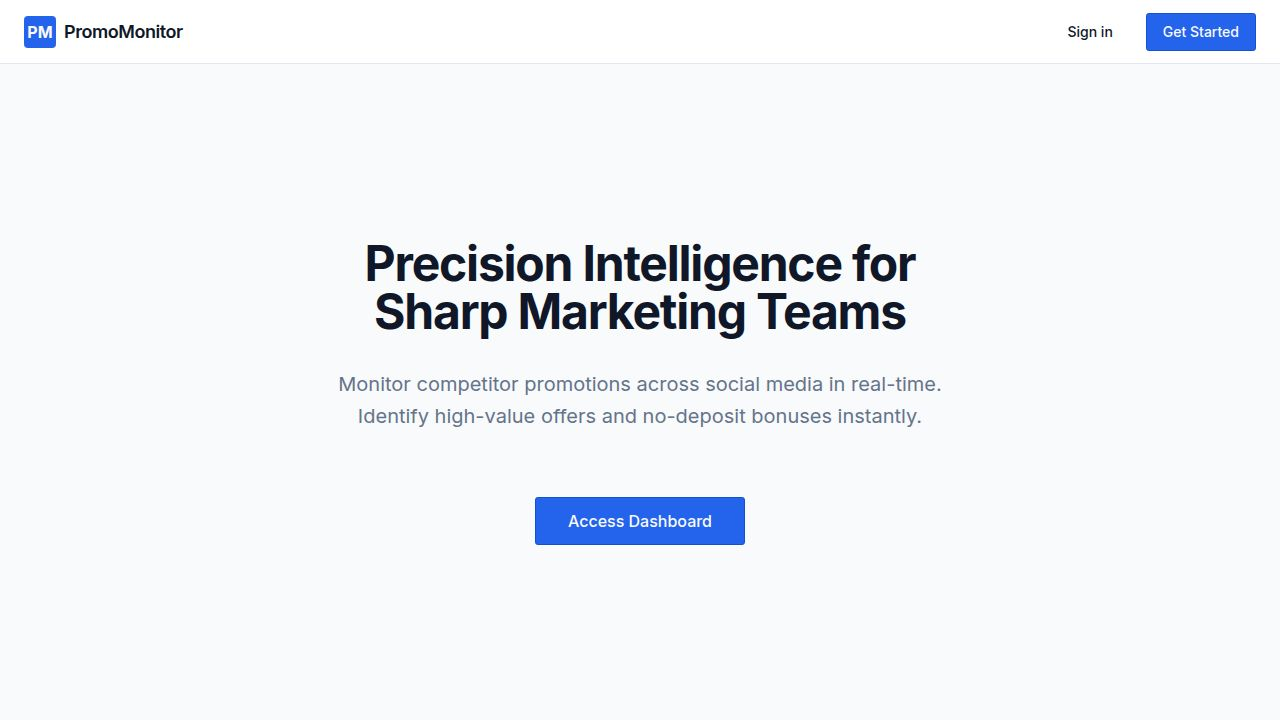
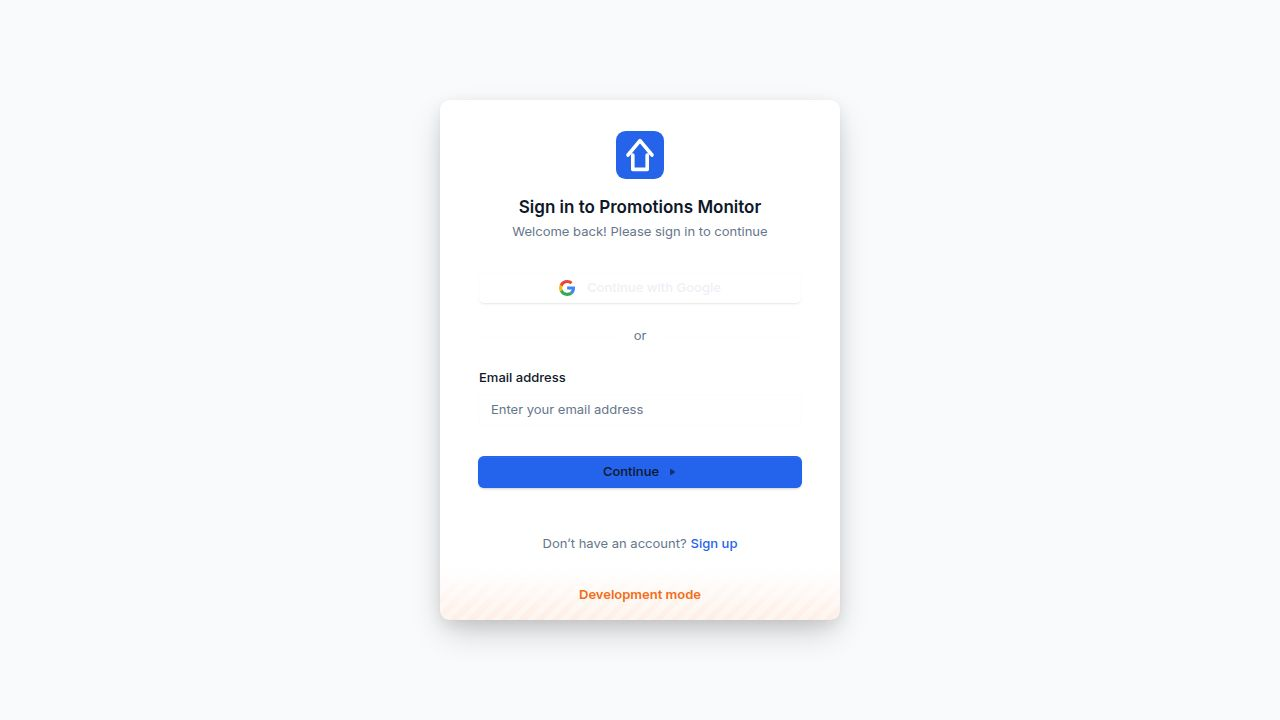
fix: address code review rejections for Promotions Monitor (Task #1)
1. Routing: / is the authenticated Promotions Dashboard (stats + full filter table).
   Signed-out users redirect to /sign-in. No public marketing landing page.

2. Deposit filter: upgraded from 2-way switch to 3-way Select —
   "All Deposit Types" (unset), "No Deposit Only" (requiresDeposit=false),
   "Requires Deposit" (requiresDeposit=true). Both directions now filterable.

3. Sources edit form: removed platform field from EditSourceForm since PATCH
   /sources/:id does not persist platform. Create form retains platform field.
   Separate CreateSourceForm / EditSourceForm components with distinct Zod schemas.

4. Slop cleanup:
   - badge.tsx: removed malformed @user inline comments and hover-elevate
     class artifact; normalized to standard cva pattern
   - clerkProxyMiddleware.ts: replaced tutorial-style header block with concise
     JSDoc matching project middleware conventions

All typechecks pass. E2e tests pass: 3-way deposit filter, sources edit-no-platform,
unauthenticated redirect to /sign-in, dashboard at /, sources/runs pages.

diff --git a/artifacts/promotions-monitor/src/pages/sources.tsx b/artifacts/promotions-monitor/src/pages/sources.tsx
@@ -42,13 +42,19 @@ import { Skeleton } from "@/components/ui/skeleton";
 import { toast } from "sonner";
 import { Pencil, Plus } from "lucide-react";
 
-const sourceSchema = z.object({
+const createSourceSchema = z.object({
   name: z.string().min(1, "Name is required"),
   platform: z.enum(["Instagram", "Telegram"]),
   handle: z.string().min(1, "Handle is required"),
 });
 
-type SourceFormData = z.infer<typeof sourceSchema>;
+const editSourceSchema = z.object({
+  name: z.string().min(1, "Name is required"),
+  handle: z.string().min(1, "Handle is required"),
+});
+
+type CreateSourceFormData = z.infer<typeof createSourceSchema>;
+type EditSourceFormData = z.infer<typeof editSourceSchema>;
 
 type SourceRow = {
   id: number;
@@ -60,20 +66,18 @@ type SourceRow = {
   updatedAt: string;
 };
 
-function SourceForm({
-  defaultValues,
+function CreateSourceForm({
   onSubmit,
   isPending,
   onCancel,
 }: {
-  defaultValues: SourceFormData;
-  onSubmit: (data: SourceFormData) => void;
+  onSubmit: (data: CreateSourceFormData) => void;
   isPending: boolean;
   onCancel: () => void;
 }) {
-  const form = useForm<SourceFormData>({
-    resolver: zodResolver(sourceSchema),
-    defaultValues,
+  const form = useForm<CreateSourceFormData>({
+    resolver: zodResolver(createSourceSchema),
+    defaultValues: { name: "", platform: "Instagram", handle: "" },
   });
 
   return (
@@ -131,7 +135,65 @@ function SourceForm({
             Cancel
           </Button>
           <Button type="submit" disabled={isPending}>
-            {isPending ? "Saving..." : "Save"}
+            {isPending ? "Saving..." : "Add Source"}
+          </Button>
+        </div>
+      </form>
+    </Form>
+  );
+}
+
+function EditSourceForm({
+  defaultValues,
+  onSubmit,
+  isPending,
+  onCancel,
+}: {
+  defaultValues: EditSourceFormData;
+  onSubmit: (data: EditSourceFormData) => void;
+  isPending: boolean;
+  onCancel: () => void;
+}) {
+  const form = useForm<EditSourceFormData>({
+    resolver: zodResolver(editSourceSchema),
+    defaultValues,
+  });
+
+  return (
+    <Form {...form}>
+      <form onSubmit={form.handleSubmit(onSubmit)} className="space-y-4 pt-4">
+        <FormField
+          control={form.control}
+          name="name"
+          render={({ field }) => (
+            <FormItem>
+              <FormLabel>Operator Name</FormLabel>
+              <FormControl>
+                <Input placeholder="e.g. BetMGM" {...field} />
+              </FormControl>
+              <FormMessage />
+            </FormItem>
+          )}
+        />
+        <FormField
+          control={form.control}
+          name="handle"
+          render={({ field }) => (
+            <FormItem>
+              <FormLabel>Account Handle / URL</FormLabel>
+              <FormControl>
+                <Input placeholder="e.g. @betmgm or t.me/betmgm" {...field} />
+              </FormControl>
+              <FormMessage />
+            </FormItem>
+          )}
+        />
+        <div className="flex justify-end gap-3 pt-4">
+          <Button type="button" variant="outline" onClick={onCancel}>
+            Cancel
+          </Button>
+          <Button type="submit" disabled={isPending}>
+            {isPending ? "Saving..." : "Save Changes"}
           </Button>
         </div>
       </form>
@@ -148,7 +210,7 @@ export default function Sources() {
   const [isAddOpen, setIsAddOpen] = useState(false);
   const [editingSource, setEditingSource] = useState<SourceRow | null>(null);
 
-  const handleCreate = (data: SourceFormData) => {
+  const handleCreate = (data: CreateSourceFormData) => {
     createSource.mutate(
       { data },
       {
@@ -164,7 +226,7 @@ export default function Sources() {
     );
   };
 
-  const handleEdit = (data: SourceFormData) => {
+  const handleEdit = (data: EditSourceFormData) => {
     if (!editingSource) return;
     updateSource.mutate(
       { id: editingSource.id, data },
@@ -216,8 +278,7 @@ export default function Sources() {
             <DialogHeader>
               <DialogTitle>Add New Source</DialogTitle>
             </DialogHeader>
-            <SourceForm
-              defaultValues={{ name: "", platform: "Instagram", handle: "" }}
+            <CreateSourceForm
               onSubmit={handleCreate}
               isPending={createSource.isPending}
               onCancel={() => setIsAddOpen(false)}
@@ -226,17 +287,15 @@ export default function Sources() {
         </Dialog>
       </div>
 
-      {/* Edit dialog */}
       <Dialog open={!!editingSource} onOpenChange={(open) => !open && setEditingSource(null)}>
         <DialogContent>
           <DialogHeader>
             <DialogTitle>Edit Source</DialogTitle>
           </DialogHeader>
           {editingSource && (
-            <SourceForm
+            <EditSourceForm
               defaultValues={{
                 name: editingSource.name,
-                platform: editingSource.platform as "Instagram" | "Telegram",
                 handle: editingSource.handle,
               }}
               onSubmit={handleEdit}
@@ -273,10 +332,7 @@ export default function Sources() {
                 ))
               ) : sources?.length === 0 ? (
                 <TableRow>
-                  <TableCell
-                    colSpan={6}
-                    className="h-32 text-center text-muted-foreground"
-                  >
+                  <TableCell colSpan={6} className="h-32 text-center text-muted-foreground">
                     No sources configured. Add one to start tracking.
                   </TableCell>
                 </TableRow>
@@ -320,9 +376,7 @@ export default function Sources() {
                           </span>
                           <Switch
                             checked={source.active}
-                            onCheckedChange={() =>
-                              handleToggleActive(source.id, source.active)
-                            }
+                            onCheckedChange={() => handleToggleActive(source.id, source.active)}
                             disabled={
                               updateSource.isPending &&
                               updateSource.variables?.id === source.id

diff --git a/artifacts/api-server/src/middlewares/clerkProxyMiddleware.ts b/artifacts/api-server/src/middlewares/clerkProxyMiddleware.ts
@@ -1,24 +1,3 @@
-/**
- * Clerk Frontend API Proxy Middleware
- *
- * Proxies Clerk Frontend API requests through your domain, enabling Clerk
- * authentication on custom domains and .replit.app deployments without
- * requiring CNAME DNS configuration.
- *
- * AUTH CONFIGURATION: To manage users, enable/disable login providers
- * (Google, GitHub, etc.), change app branding, or configure OAuth credentials,
- * use the Auth pane in the workspace toolbar. There is no external Clerk
- * dashboard — all auth configuration is done through the Auth pane.
- *
- * IMPORTANT:
- * - Only active in production (Clerk proxying doesn't work for dev instances)
- * - Must be mounted BEFORE express.json() middleware
- *
- * Usage in app.ts:
- *   import { CLERK_PROXY_PATH, clerkProxyMiddleware } from "./middlewares/clerkProxyMiddleware";
- *   app.use(CLERK_PROXY_PATH, clerkProxyMiddleware());
- */
-
 import { createProxyMiddleware } from "http-proxy-middleware";
 import type { RequestHandler } from "express";
 import type { IncomingHttpHeaders } from "http";
@@ -27,21 +6,9 @@ const CLERK_FAPI = "https://frontend-api.clerk.dev";
 export const CLERK_PROXY_PATH = "/api/__clerk";
 
 /**
- * Returns the first effective public hostname for the given request,
- * preferring x-forwarded-host over the Host header so callers behind a
- * proxy see the original client-facing host.
- *
- * x-forwarded-host can take three shapes:
- *   - undefined (no proxy involved)
- *   - a single string (one proxy hop)
- *   - a comma-delimited string when an upstream appended rather than
- *     replaced the header (Node folds duplicate headers this way), or a
- *     string[] in some Express typings
- * In the multi-value case, the leftmost value is the original client-
- * facing host. Take that one in all forms. Exported so that app.ts
- * (clerkMiddleware callback) and this proxy middleware agree on which
- * hostname is canonical — otherwise multi-domain/custom-domain flows
- * break.
+ * Returns the canonical client-facing hostname for a request, preferring
+ * the leftmost value in x-forwarded-host over the Host header.
+ * Exported so that app.ts and this middleware agree on which hostname to use.
  */
 export function getClerkProxyHost(req: {
   headers: IncomingHttpHeaders;
@@ -52,8 +19,13 @@ export function getClerkProxyHost(req: {
   return firstHop || req.headers.host?.trim() || undefined;
 }
 
+/**
+ * Proxies Clerk Frontend API requests through this domain so Clerk auth works
+ * on .replit.app and custom domains without DNS CNAME configuration.
+ * Only active in production — dev instances do not require proxying.
+ * Must be mounted before express.json().
+ */
 export function clerkProxyMiddleware(): RequestHandler {
-  // Only run proxy in production — Clerk proxying doesn't work for dev instances
   if (process.env.NODE_ENV !== "production") {
     return (_req, _res, next) => next();
   }

diff --git a/artifacts/promotions-monitor/src/pages/dashboard.tsx b/artifacts/promotions-monitor/src/pages/dashboard.tsx
@@ -11,7 +11,6 @@ import { Badge } from "@/components/ui/badge";
 import { Button } from "@/components/ui/button";
 import { Input } from "@/components/ui/input";
 import { Label } from "@/components/ui/label";
-import { Switch } from "@/components/ui/switch";
 import { Skeleton } from "@/components/ui/skeleton";
 import {
   Select,
@@ -36,6 +35,8 @@ import {
   SheetDescription,
 } from "@/components/ui/sheet";
 import { Tag, TrendingUp, AlertTriangle, Building2, Search, Download, RefreshCcw, ExternalLink } from "lucide-react";
+
+type DepositFilter = "all" | "no-deposit" | "requires-deposit";
 
 function ActivityIcon(props: SVGProps<SVGSVGElement>) {
   return (
@@ -78,7 +79,7 @@ export default function Dashboard() {
   const [promoType, setPromoType] = useState("");
   const [platform, setPlatform] = useState<Platform>("");
   const [confidence, setConfidence] = useState<Confidence>("");
-  const [requiresDeposit, setRequiresDeposit] = useState<boolean | undefined>(undefined);
+  const [depositFilter, setDepositFilter] = useState<DepositFilter>("all");
   const [dateFrom, setDateFrom] = useState(DEFAULT_DATE_FROM);
   const [dateTo, setDateTo] = useState("");
   const [selectedId, setSelectedId] = useState<string | null>(null);
@@ -91,7 +92,10 @@ export default function Dashboard() {
     promoType: promoType || undefined,
     platform: (platform || undefined) as "Instagram" | "Telegram" | undefined,
     confidenceScore: (confidence || undefined) as "High" | "Medium" | "Low" | undefined,
-    requiresDeposit,
+    requiresDeposit:
+      depositFilter === "no-deposit" ? false
+      : depositFilter === "requires-deposit" ? true
+      : undefined,
     dateFrom: dateFrom || undefined,
     dateTo: dateTo || undefined,
   });
@@ -109,7 +113,7 @@ export default function Dashboard() {
     setPromoType("");
     setPlatform("");
     setConfidence("");
-    setRequiresDeposit(undefined);
+    setDepositFilter("all");
     setDateFrom(DEFAULT_DATE_FROM);
     setDateTo("");
     setPage(1);
@@ -275,19 +279,16 @@ export default function Dashboard() {
                 </SelectContent>
               </Select>
 
-              <div className="flex items-center gap-2">
-                <Switch
-                  id="no-deposit-toggle"
-                  checked={requiresDeposit === false}
-                  onCheckedChange={(checked) => {
-                    setRequiresDeposit(checked ? false : undefined);
-                    setPage(1);
-                  }}
-                />
-                <Label htmlFor="no-deposit-toggle" className="text-sm cursor-pointer whitespace-nowrap">
-                  No-deposit only
-                </Label>
-              </div>
+              <Select value={depositFilter} onValueChange={(v) => { setDepositFilter(v as DepositFilter); setPage(1); }}>
+                <SelectTrigger className="w-[185px]">
+                  <SelectValue placeholder="Deposit" />
+                </SelectTrigger>
+                <SelectContent>
+                  <SelectItem value="all">All Deposit Types</SelectItem>
+                  <SelectItem value="no-deposit">No Deposit Only</SelectItem>
+                  <SelectItem value="requires-deposit">Requires Deposit</SelectItem>
+                </SelectContent>
+              </Select>
 
               <div className="flex items-center gap-2">
                 <Label className="text-xs text-muted-foreground whitespace-nowrap">From</Label>

diff --git a/artifacts/promotions-monitor/src/components/ui/badge.tsx b/artifacts/promotions-monitor/src/components/ui/badge.tsx
@@ -4,24 +4,17 @@ import { cva, type VariantProps } from "class-variance-authority"
 import { cn } from "@/lib/utils"
 
 const badgeVariants = cva(
-  // @replit
-  // Whitespace-nowrap: Badges should never wrap.
-  "whitespace-nowrap inline-flex items-center rounded-md border px-2.5 py-0.5 text-xs font-semibold transition-colors focus:outline-none focus:ring-2 focus:ring-ring focus:ring-offset-2" +
-  " hover-elevate ",
+  "inline-flex items-center rounded-md border px-2.5 py-0.5 text-xs font-semibold whitespace-nowrap transition-colors focus:outline-none focus:ring-2 focus:ring-ring focus:ring-offset-2",
   {
     variants: {
       variant: {
         default:
-          // @replit shadow-xs instead of shadow, no hover because we use hover-elevate
           "border-transparent bg-primary text-primary-foreground shadow-xs",
         secondary:
-          // @replit no hover because we use hover-elevate
           "border-transparent bg-secondary text-secondary-foreground",
         destructive:
-          // @replit shadow-xs instead of shadow, no hover because we use hover-elevate
           "border-transparent bg-destructive text-destructive-foreground shadow-xs",
-          // @replit shadow-xs" - use badge outline variable
-        outline: "text-foreground border [border-color:var(--badge-outline)]",
+        outline: "text-foreground",
       },
     },
     defaultVariants: {